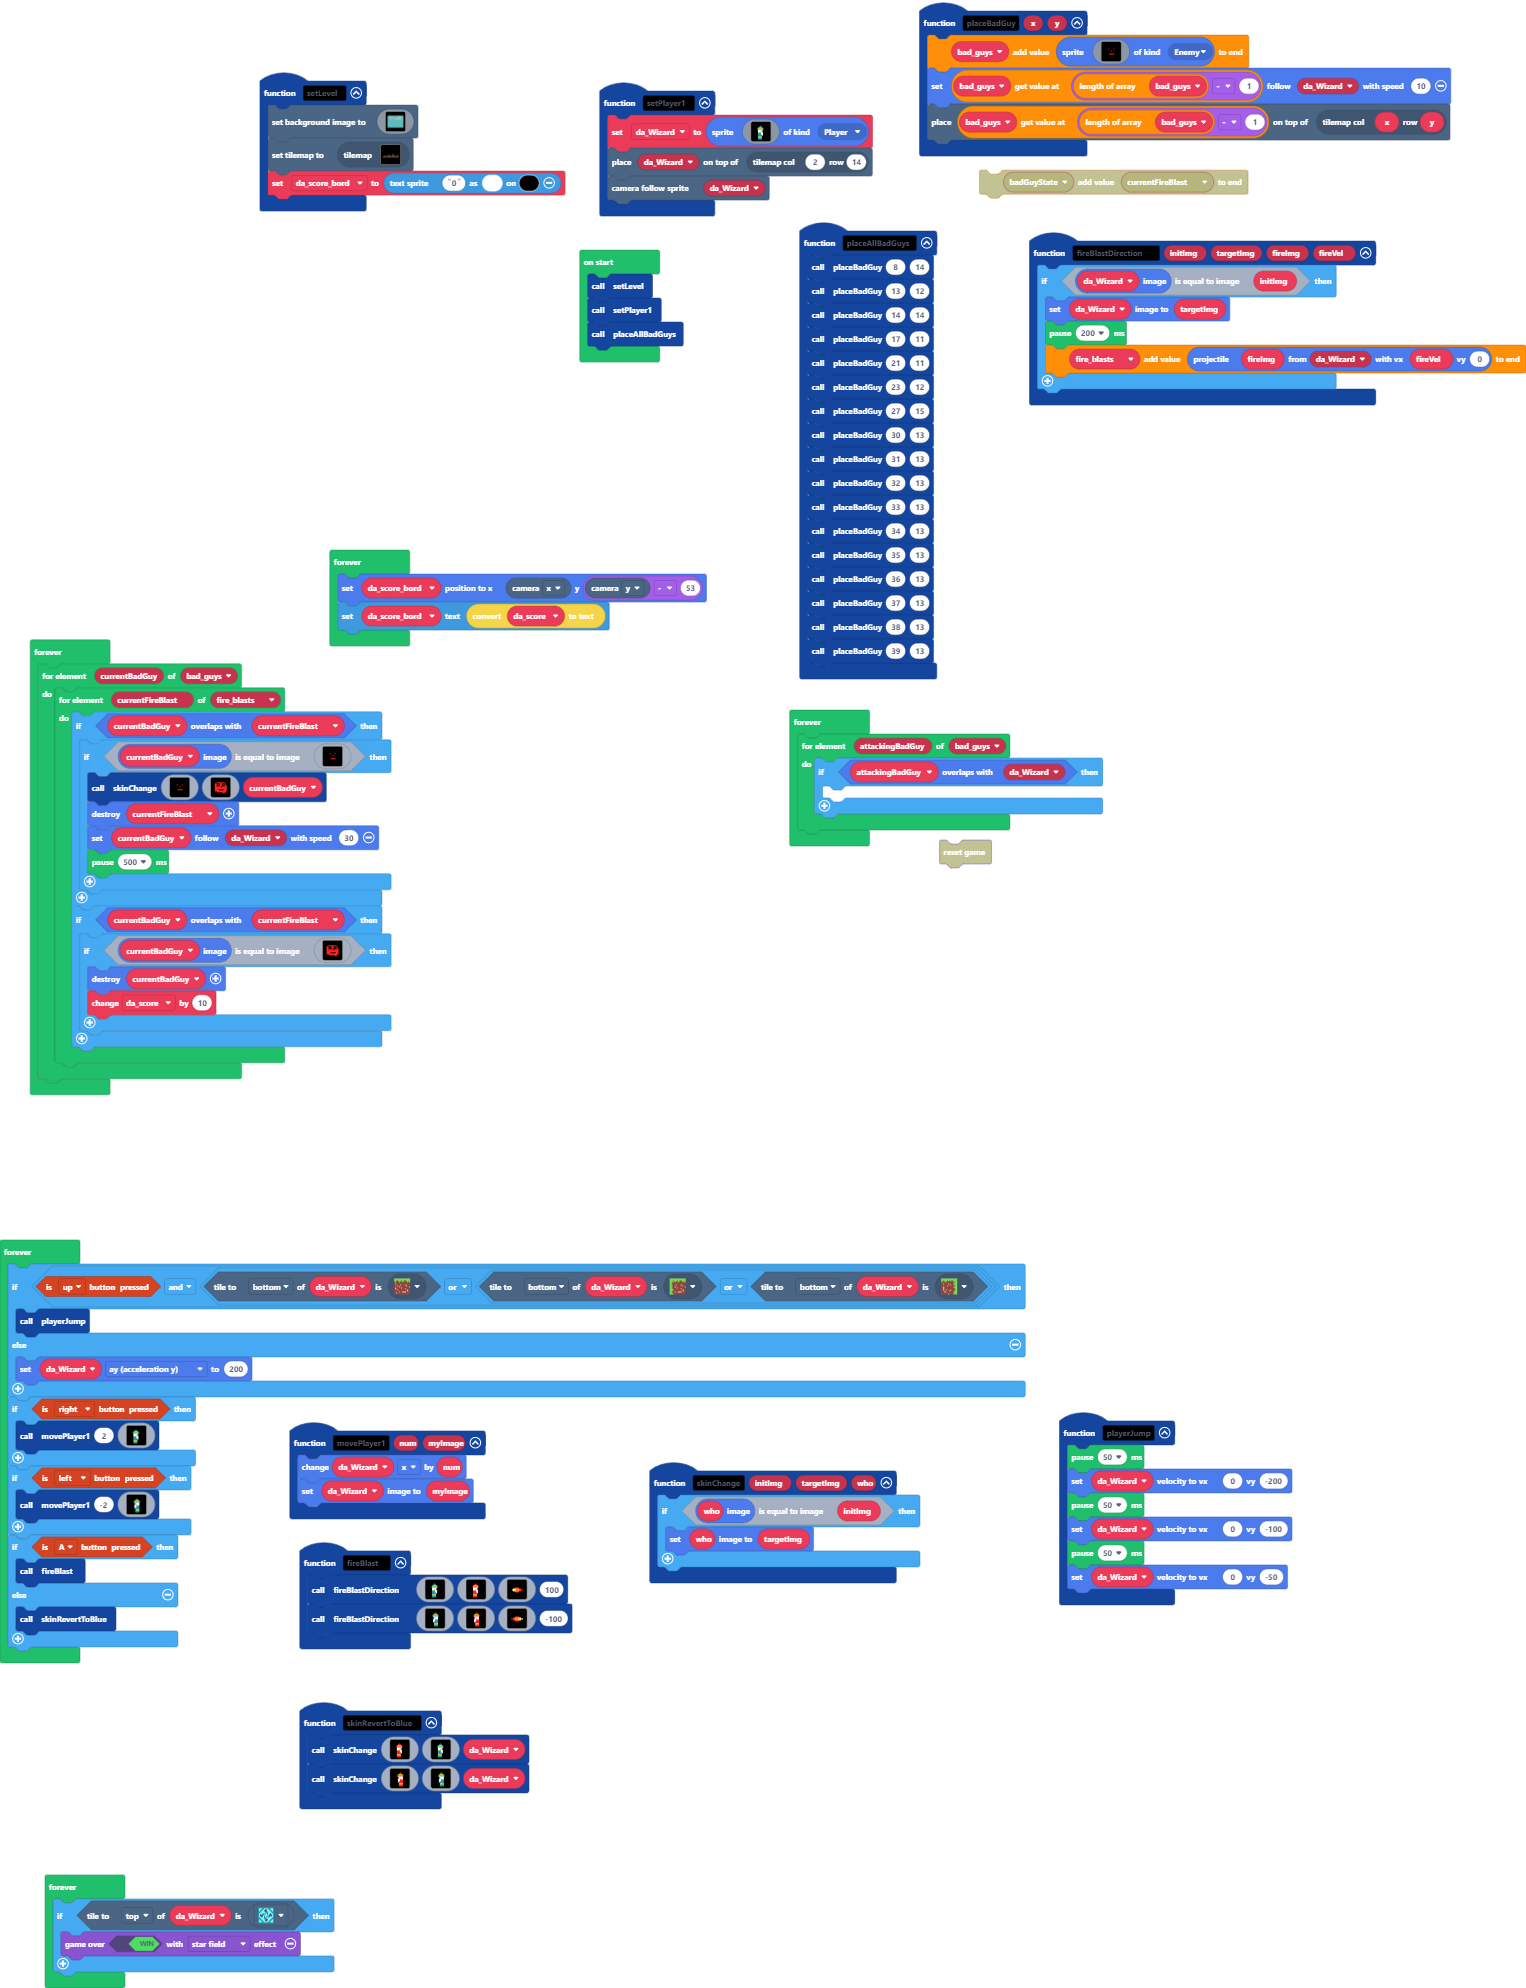
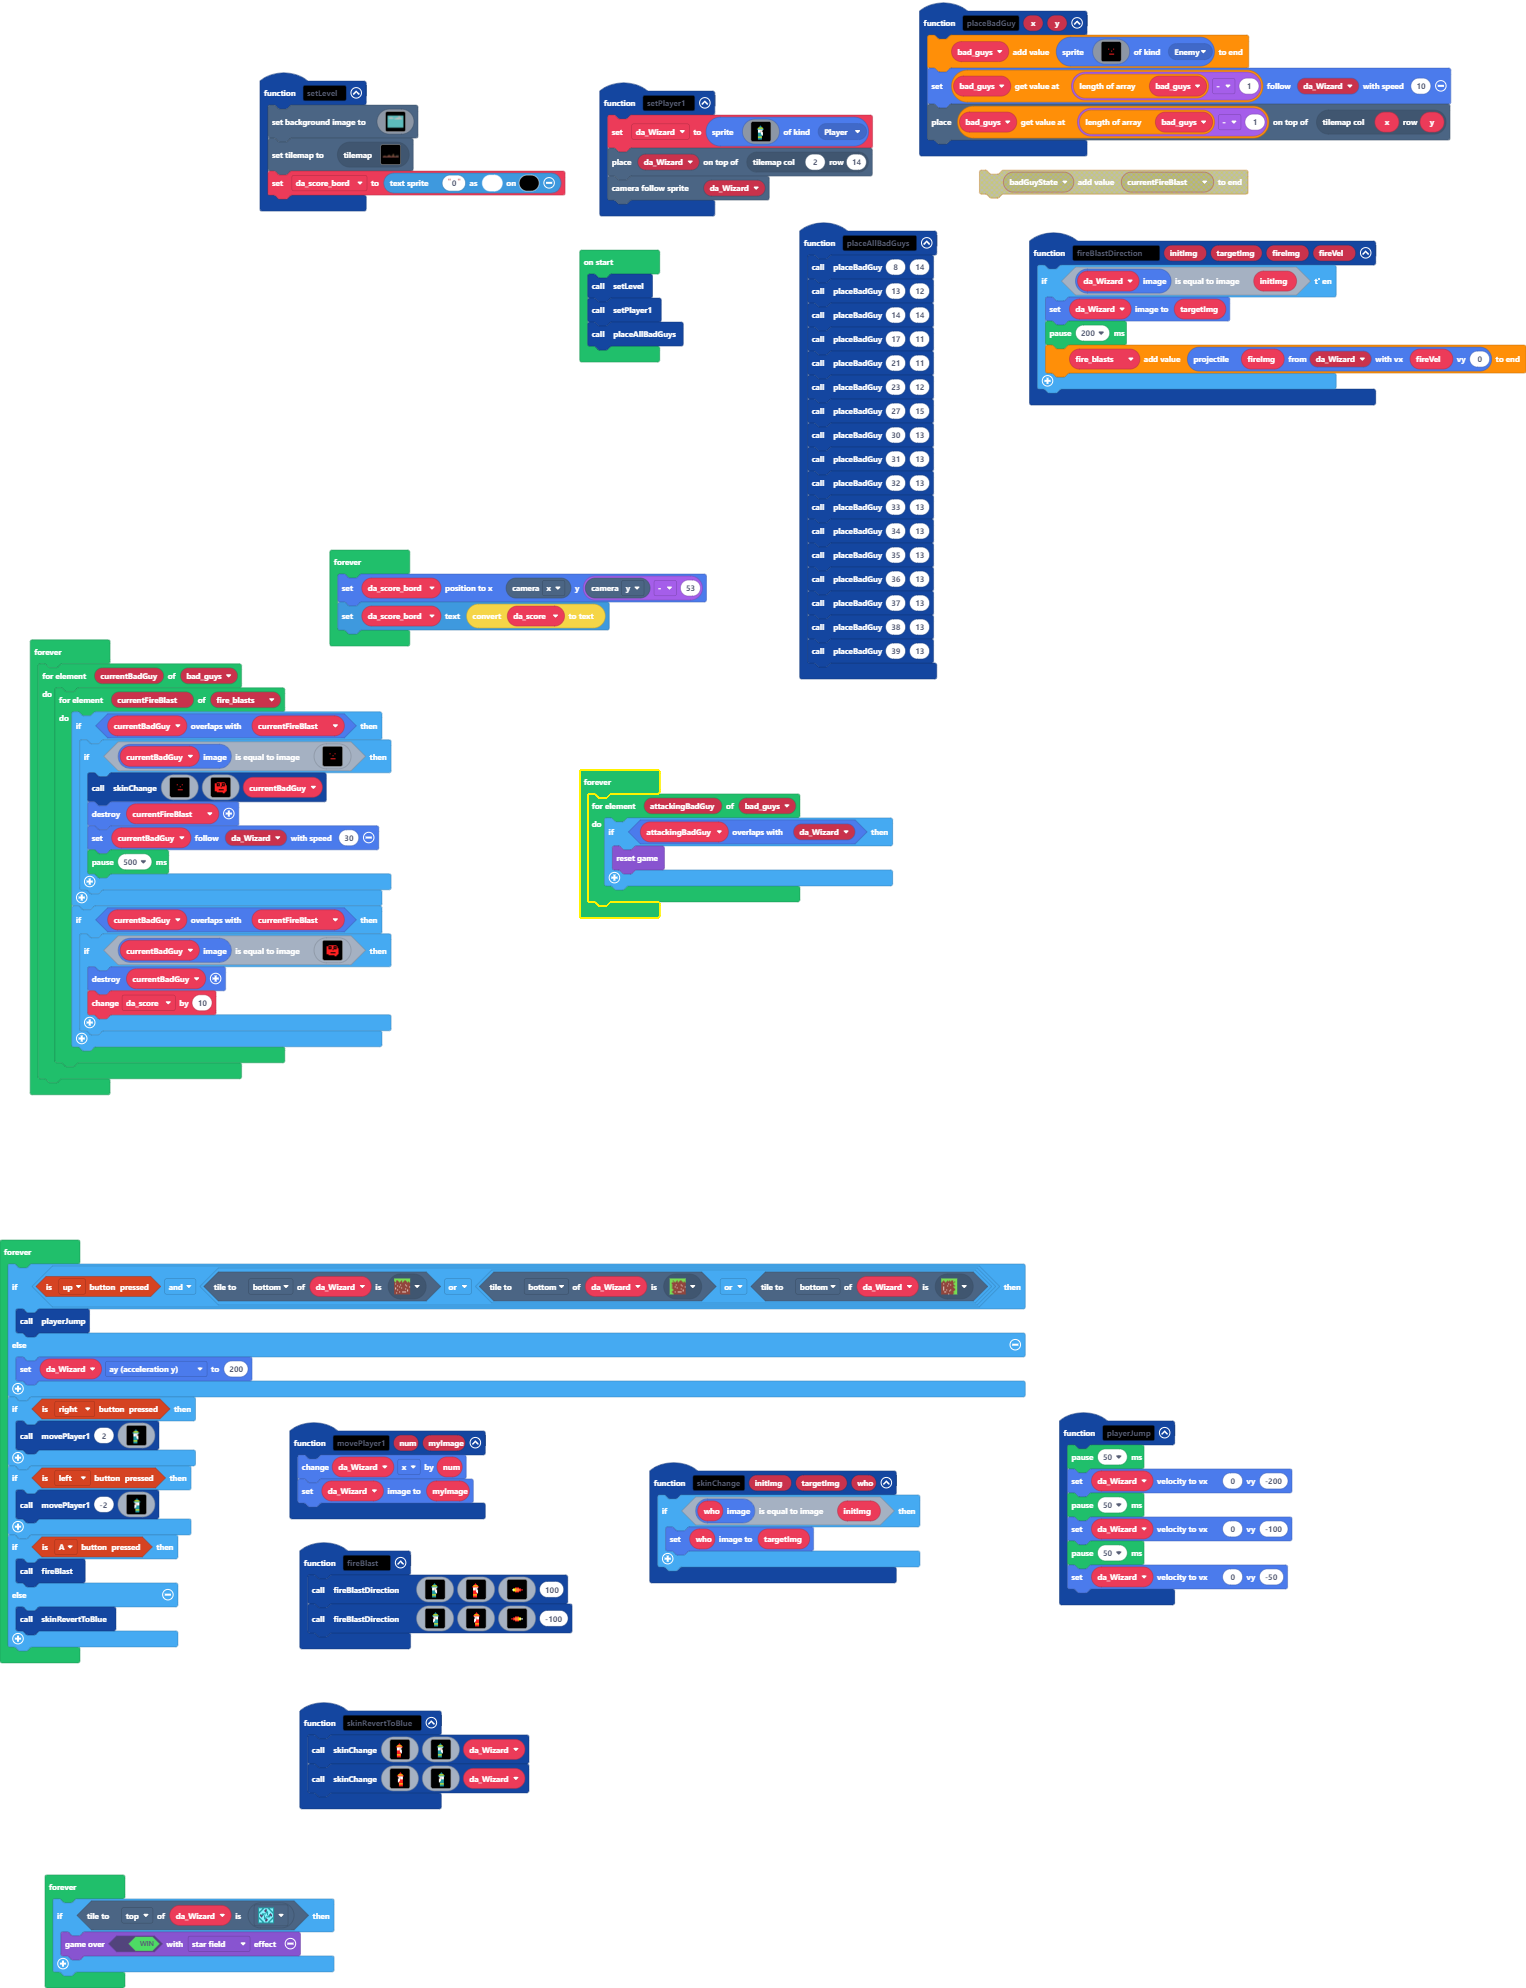
Update main.blocks, main.ts

Changed region(s): [[0.3696, 0.3431, 0.7392, 0.4678]]

diff --git a/main.ts b/main.ts
@@ -99,7 +99,7 @@ forever(function () {
 forever(function () {
     for (let attackingBadGuy of bad_guys) {
         if (attackingBadGuy.overlapsWith(da_Wizard)) {
-        	
+            game.reset()
         }
     }
 })
